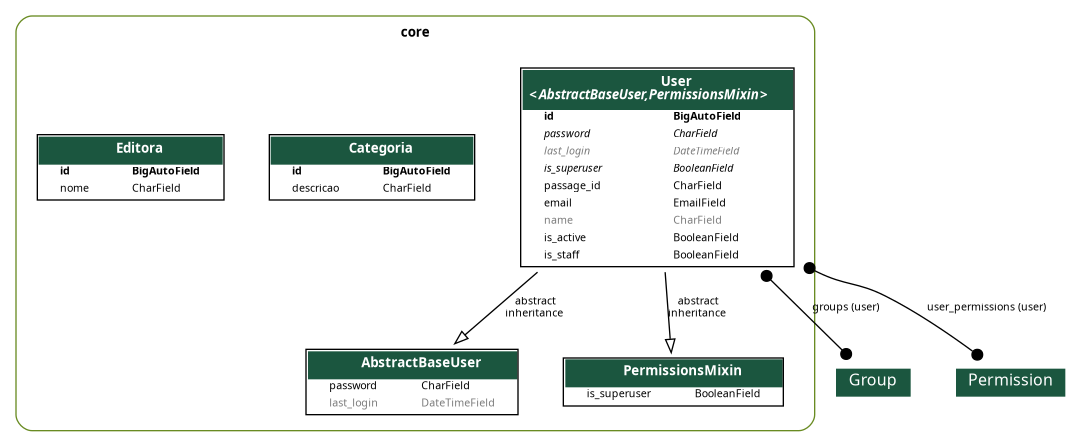
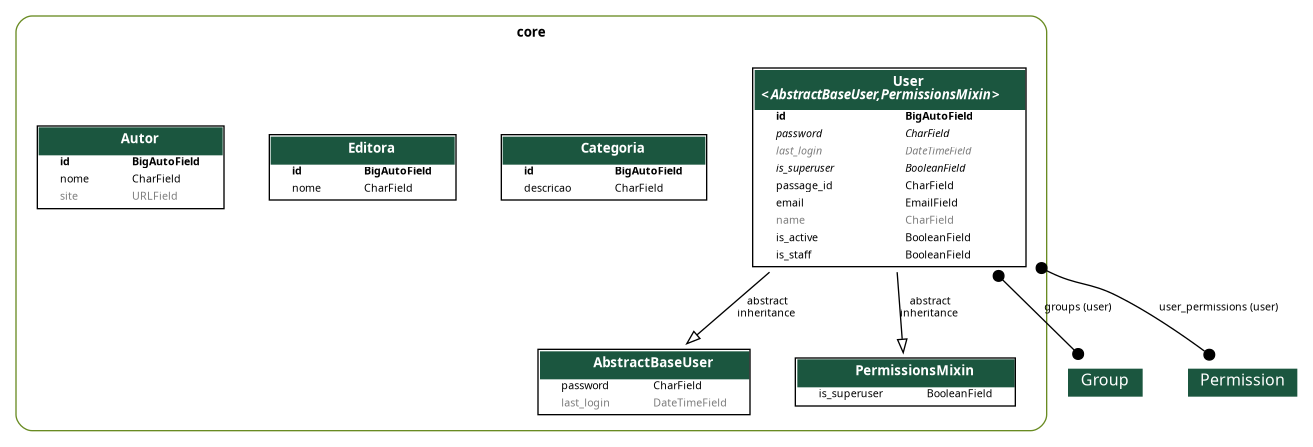
feat: adiciona modelo, serializer e viewset para Autor, atualiza rotas e admin

diff --git a/core/migrations/0007_autor.py b/core/migrations/0007_autor.py
@@ -1,0 +1,21 @@
+# Generated by Django 5.1.7 on 2026-03-10 16:57
+
+from django.db import migrations, models
+
+
+class Migration(migrations.Migration):
+
+    dependencies = [
+        ('core', '0006_editora'),
+    ]
+
+    operations = [
+        migrations.CreateModel(
+            name='Autor',
+            fields=[
+                ('id', models.BigAutoField(auto_created=True, primary_key=True, serialize=False, verbose_name='ID')),
+                ('nome', models.CharField(max_length=100)),
+                ('site', models.URLField(blank=True, null=True)),
+            ],
+        ),
+    ]

diff --git a/app/urls.py b/app/urls.py
@@ -7,12 +7,13 @@ from drf_spectacular.views import (
 )
 from rest_framework.routers import DefaultRouter
 
-from core.views import CategoriaViewSet, EditoraViewSet, UserViewSet
+from core.views import AutorViewSet, CategoriaViewSet, EditoraViewSet, UserViewSet
 
 router = DefaultRouter()
 
 router.register(r'categorias', CategoriaViewSet, basename='categorias')
 router.register(r'editoras', EditoraViewSet, basename='editoras')
+router.register(r'autores', AutorViewSet, basename='autores')
 router.register(r'usuarios', UserViewSet, basename='usuarios')
 
 urlpatterns = [

diff --git a/core/views/autor.py b/core/views/autor.py
@@ -1,0 +1,7 @@
+from rest_framework.viewsets import ModelViewSet
+from core.models import Autor
+from core.serializers.autor import AutorSerializer
+
+class AutorViewSet(ModelViewSet):
+    queryset = Autor.objects.all()
+    serializer_class = AutorSerializer

diff --git a/core/models/autor.py b/core/models/autor.py
@@ -1,0 +1,8 @@
+from django.db import models
+
+class Autor(models.Model):
+    nome = models.CharField(max_length=100)
+    site = models.URLField(max_length=200, blank=True, null=True)
+
+    def __str__(self):
+        return self.nome

diff --git a/core/serializers/autor.py b/core/serializers/autor.py
@@ -1,0 +1,7 @@
+from rest_framework.serializers import ModelSerializer
+from core.models import Autor
+
+class AutorSerializer(ModelSerializer):
+    class Meta:
+        model = Autor
+        fields = '__all__'

diff --git a/core/admin.py b/core/admin.py
@@ -54,3 +54,4 @@ class UserAdmin(BaseUserAdmin):
 admin.site.register(models.User, UserAdmin)
 admin.site.register(models.Categoria)
 admin.site.register(models.Editora)
+admin.site.register(models.Autor)

diff --git a/core/serializers/__init__.py b/core/serializers/__init__.py
@@ -1,3 +1,4 @@
 from .user import UserSerializer
 from .categoria import CategoriaSerializer
 from .editora import EditoraSerializer
+from .autor import AutorSerializer

diff --git a/core/views/__init__.py b/core/views/__init__.py
@@ -1,3 +1,4 @@
 from .user import UserViewSet
 from .categoria import CategoriaViewSet
 from .editora import EditoraViewSet
+from .autor import AutorViewSet

diff --git a/core/models/__init__.py b/core/models/__init__.py
@@ -1,3 +1,4 @@
 from .user import User
 from .categoria import Categoria
 from .editora import Editora
+from .autor import Autor
